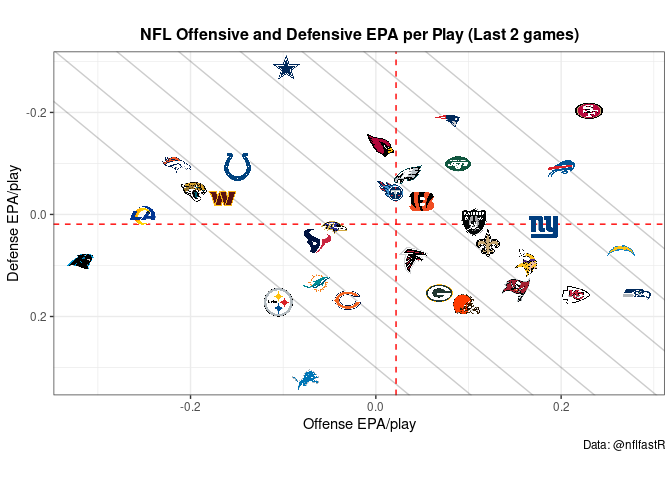
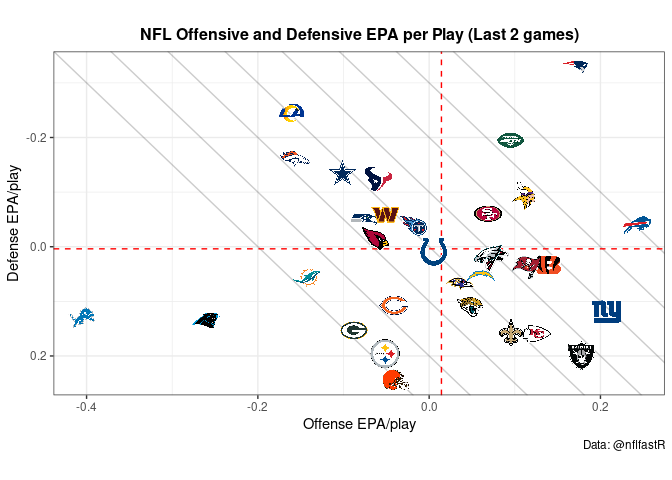
2022-10-18

diff --git a/NFL-Report.md b/NFL-Report.md
@@ -1,5 +1,5 @@
 
-# NFL Landscape: Week 5
+# NFL Landscape: Week 6
 
 ### Overall Efficiency Landscape
 
